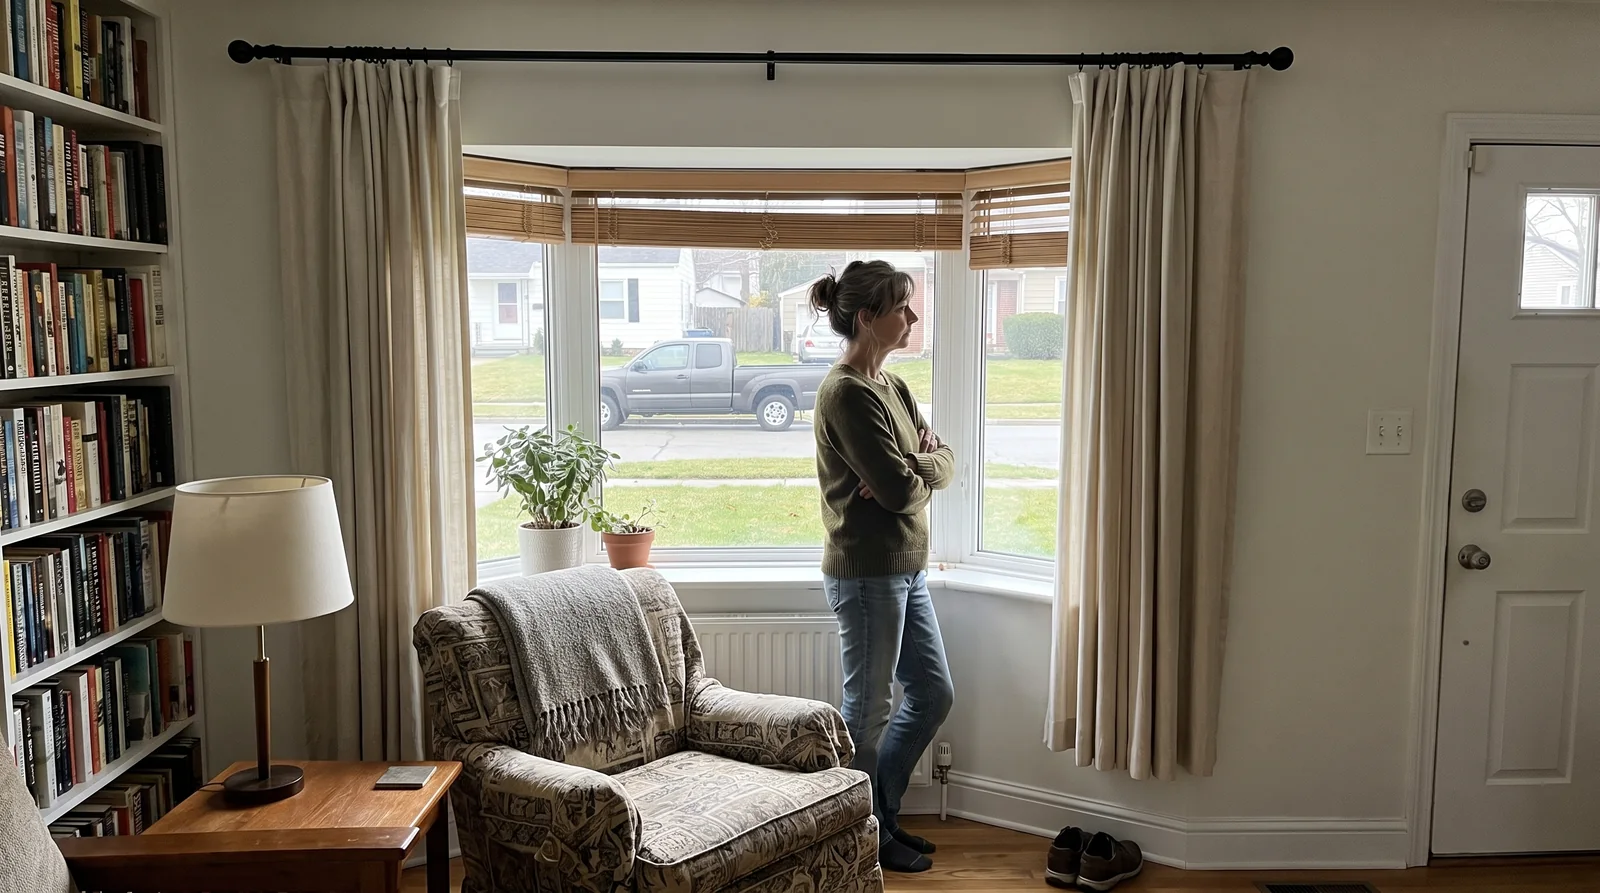
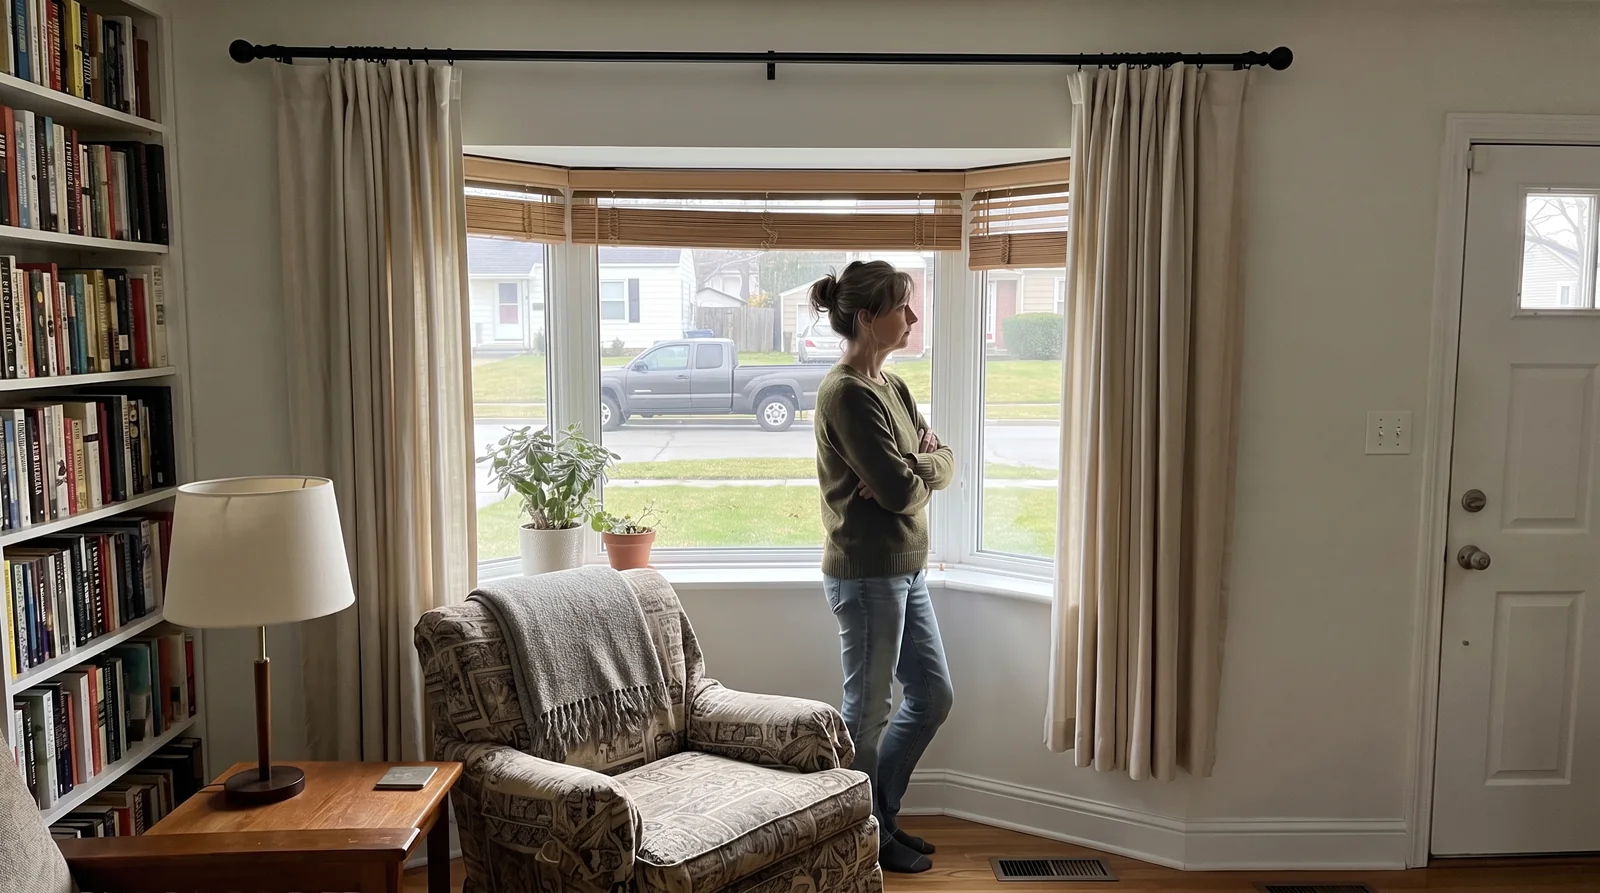
Is 45 too late photos: no radiators, adult training group, curtains

diff --git a/blog-pipeline/photos-completed/2026-08-20-is-45-too-late.md b/blog-pipeline/photos-completed/2026-08-20-is-45-too-late.md
@@ -4,7 +4,7 @@ post_title: Is 45 Too Late To Start Something New?
 slug: is-45-too-late-to-start-something-new
 status: done
 cameron_processed: false
-note: "PROVISIONAL slug and title, the writer should overwrite them. No request file was ever written for this set, so it was built from the standing rules in PRIORITY-ORDER-2026-08-14 plus the standard cold-to-warm arc. Nano Banana Pro on ImagineArt, each frame enhanced to 2752px then delivered at 1600px webp. BUILDER TRACK, so there is NO product anywhere in this set and the show-the-real-brand rule does not apply. THE OVERRIDING RULE WAS THE FTC ONE and every frame was written against it: nothing may suggest money, earnings or income, and there is no legible writing of any kind anywhere in any frame. No cash, no cards, no invoices, no cheques, no calculator, no laptop, no phone, no screens, no charts, no luxury, no new car, no suitcase, no beach. Clothing is completely plain, and the villain was reshot once specifically to remove a Nike swoosh that appeared on a bystander's hoodie. ONE woman locked across all five frames, about 46, dark blonde hair loosely tied back with a few greys, no makeup, plain olive jumper. Hero is her at the window of her own front room early on a grey morning with a mug in both hands, composed, clear-eyed and level, doing quiet arithmetic about her own life. THE VILLAIN IS THE FRAME THAT MATTERS MOST and she is DIGNIFIED, NOT PITIABLE: standing alone at the back of a bare training room at the end of the day under hard cold fluorescent light, a stacking chair beside her, everyone else in the room fifteen or twenty years younger and clustered together at the front with their backs to her. She is upright, chin level, hands still, tired the way a competent person is tired. Not crying, not slumped, nothing in the frame looking down on her, because the reader IS this woman and a frame that pities her loses her on sight. Turning point returns to the same front room in warmer daylight with her sitting forward on the arm of the sofa, forearms on her knees, hands loosely clasped, a faint set to her jaw, decided. Belonging is the post's real answer: three women of the same age working together on something ordinary and hands-on, chopping vegetables for a batch of soup in a big bright modern island kitchen, hands busy and in focus, equals and competent rather than aspirational, no transaction and no price tag anywhere. It was reshot once because the first version put them in a shabby peeling kitchen that read as poverty. Freedom is the warmest: Saturday morning in her own tidy back garden, barefoot on the grass with a coffee, head tipped back laughing at a friend off camera, shoulders down, a second mug on the table so the house is not empty. It was reshot once for the same reason. One unremarkable morning that is not braced against anything. Redone 2026-10-12 for check 15 and the house rules. The old set was British throughout: a terraced front room with a bay window, radiator and roller blinds, a mug in hero and freedom, a British kitchen with a kettle and mugs, and a British terrace back garden. Hero and turning point are now the living room of a modest house in Dayton, Ohio: floor-length oatmeal linen curtains on a black rod, a worn patterned armchair, a full bookcase with no readable spines, an American street with lawns outside; her standing at the window, then sitting on the edge of the armchair, settled. Belonging is a big lived-in kitchen: honey oak shaker cabinets, white quartz island, stainless French-door fridge, dishwasher, gas range with full oven door, cream linen curtains on black rods, three women cooking soup together and laughing, no mugs. Freedom is an American back yard with a deck, privacy fence, tomato pots and sheets on a line, her laughing barefoot with empty hands. Villain kept (the community hall) and cooled. Builder track: no money, screens, clocks or text. Measured R/B ramp: villain 0.91, hero 1.23, turning point 1.44, belonging 1.62, freedom 1.90."
+note: "PROVISIONAL slug and title, the writer should overwrite them. No request file was ever written for this set, so it was built from the standing rules in PRIORITY-ORDER-2026-08-14 plus the standard cold-to-warm arc. Nano Banana Pro on ImagineArt, each frame enhanced to 2752px then delivered at 1600px webp. BUILDER TRACK, so there is NO product anywhere in this set and the show-the-real-brand rule does not apply. THE OVERRIDING RULE WAS THE FTC ONE and every frame was written against it: nothing may suggest money, earnings or income, and there is no legible writing of any kind anywhere in any frame. No cash, no cards, no invoices, no cheques, no calculator, no laptop, no phone, no screens, no charts, no luxury, no new car, no suitcase, no beach. Clothing is completely plain, and the villain was reshot once specifically to remove a Nike swoosh that appeared on a bystander's hoodie. ONE woman locked across all five frames, about 46, dark blonde hair loosely tied back with a few greys, no makeup, plain olive jumper. Hero is her at the window of her own front room early on a grey morning with a mug in both hands, composed, clear-eyed and level, doing quiet arithmetic about her own life. THE VILLAIN IS THE FRAME THAT MATTERS MOST and she is DIGNIFIED, NOT PITIABLE: standing alone at the back of a bare training room at the end of the day under hard cold fluorescent light, a stacking chair beside her, everyone else in the room fifteen or twenty years younger and clustered together at the front with their backs to her. She is upright, chin level, hands still, tired the way a competent person is tired. Not crying, not slumped, nothing in the frame looking down on her, because the reader IS this woman and a frame that pities her loses her on sight. Turning point returns to the same front room in warmer daylight with her sitting forward on the arm of the sofa, forearms on her knees, hands loosely clasped, a faint set to her jaw, decided. Belonging is the post's real answer: three women of the same age working together on something ordinary and hands-on, chopping vegetables for a batch of soup in a big bright modern island kitchen, hands busy and in focus, equals and competent rather than aspirational, no transaction and no price tag anywhere. It was reshot once because the first version put them in a shabby peeling kitchen that read as poverty. Freedom is the warmest: Saturday morning in her own tidy back garden, barefoot on the grass with a coffee, head tipped back laughing at a friend off camera, shoulders down, a second mug on the table so the house is not empty. It was reshot once for the same reason. One unremarkable morning that is not braced against anything. Redone 2026-10-12 for check 15 and the house rules. The old set was British throughout: a terraced front room with a bay window, radiator and roller blinds, a mug in hero and freedom, a British kitchen with a kettle and mugs, and a British terrace back garden. Hero and turning point are now the living room of a modest house in Dayton, Ohio: floor-length oatmeal linen curtains on a black rod, a worn patterned armchair, a full bookcase with no readable spines, an American street with lawns outside; her standing at the window, then sitting on the edge of the armchair, settled. Belonging is a big lived-in kitchen: honey oak shaker cabinets, white quartz island, stainless French-door fridge, dishwasher, gas range with full oven door, cream linen curtains on black rods, three women cooking soup together and laughing, no mugs. Freedom is an American back yard with a deck, privacy fence, tomato pots and sheets on a line, her laughing barefoot with empty hands. Villain kept (the community hall) and cooled. Builder track: no money, screens, clocks or text. Measured R/B ramp: villain 0.91, hero 1.23, turning point 1.44, belonging 1.62, freedom 1.90. Hero, villain and turning point fixed 2026-10-13 for American homes. Hero and turning point had a British white radiator under the bay window; it is now plain wall and baseboard with a small floor vent, everything else kept. The villain group were teenagers in hoodies under vertical blinds; they are now adults in their late twenties and early thirties in plain sweaters and shirts at a workplace training session, holding blank papers, and the windows have charcoal curtain panels on a black rod. She is unchanged, alone at the back. Measured R/B ramp: villain 0.91, hero 1.24, turning point 1.44, belonging 1.62, freedom 1.89."
 ---
 
 ### is45toolate-hero-v1
